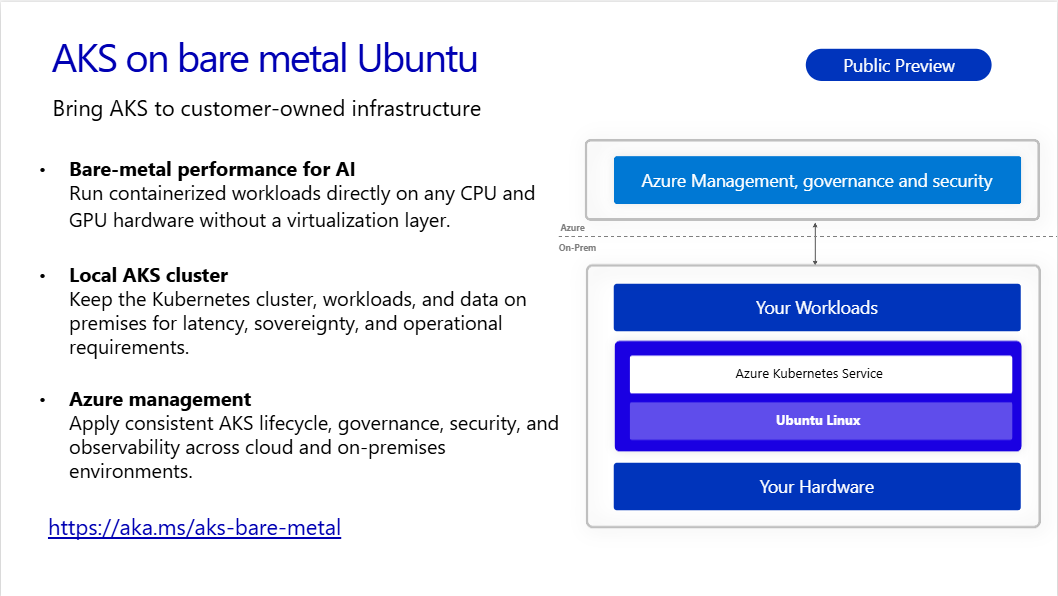
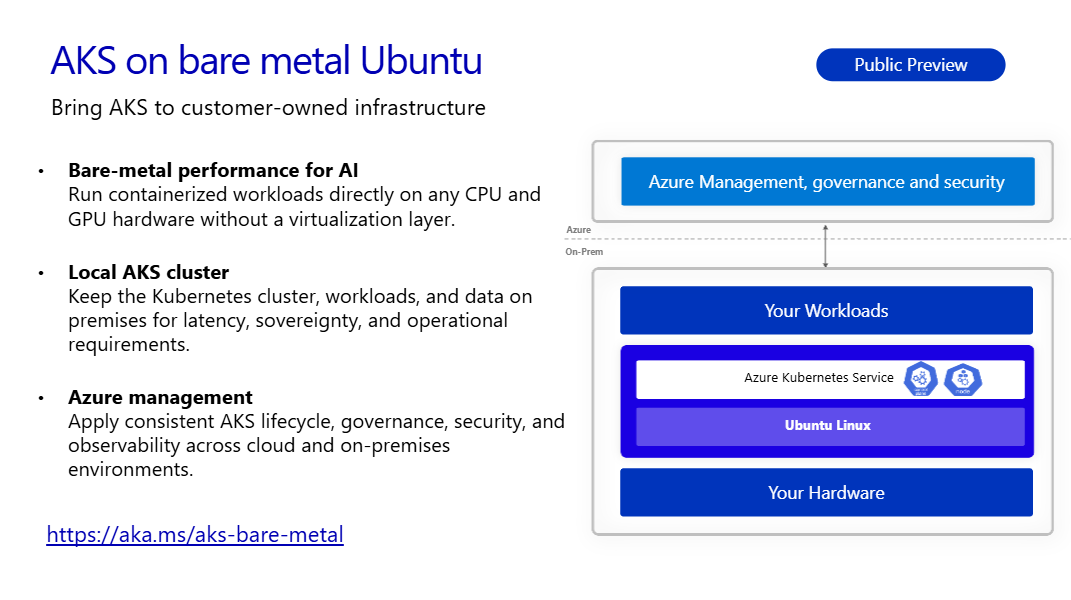
Updated image to show control plane and worker node

diff --git a/website/blog/2026-09-25-aks-baremetal-ubuntu/index.md b/website/blog/2026-09-25-aks-baremetal-ubuntu/index.md
@@ -3,7 +3,7 @@ title: "AKS on bare metal now on Ubuntu"
 date: 2026-09-30
 description: "Run Azure Kubernetes Service on customer-owned Ubuntu infrastructure with bare metal performance, flexible hardware choices, and consistent Azure management."
 authors: ["rishi-mody"]
-tags: ["aks-on-baremetal", "ai", "self-managed gpu"]
+tags: ["aks-on-baremetal", "ai", "gpu"]
 draft: true
 ---
 
